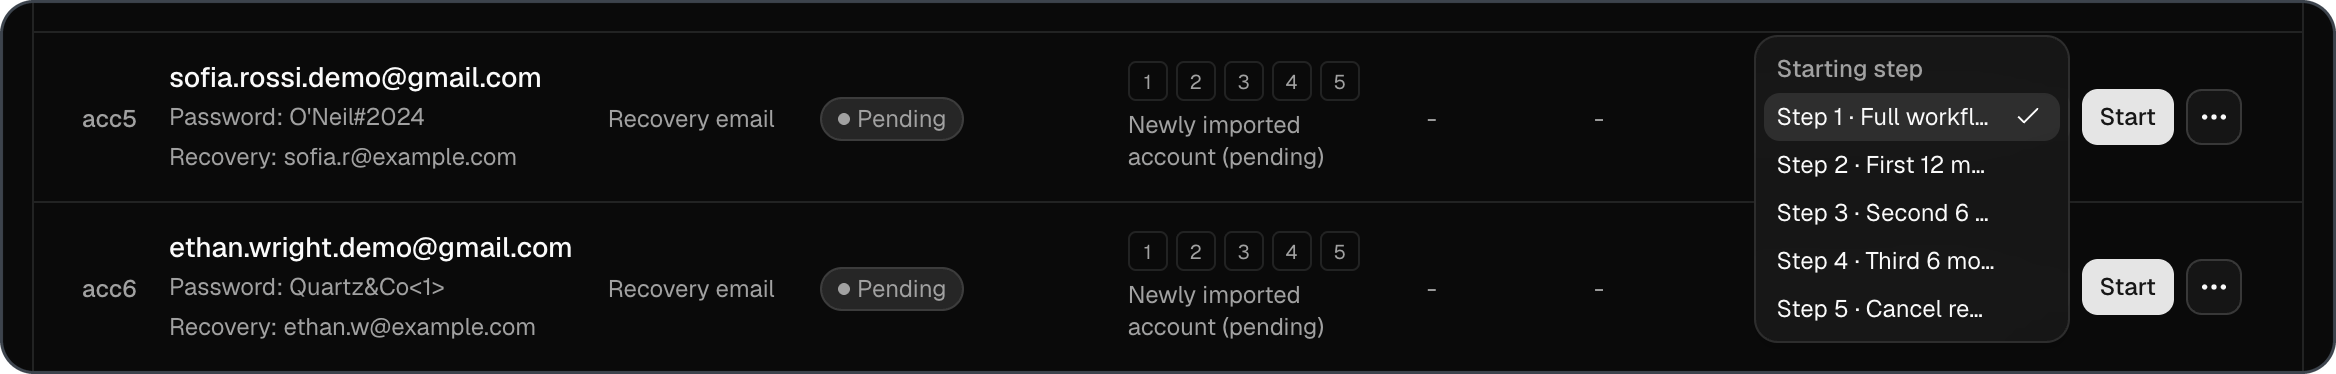
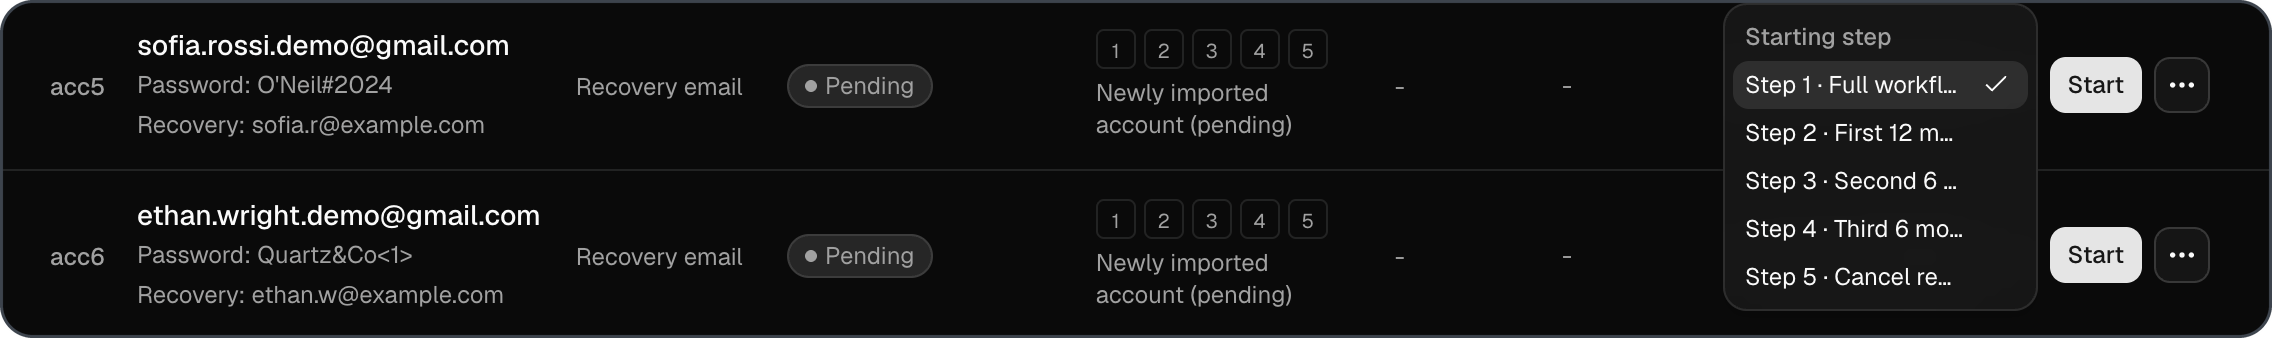
docs(images): recapture cropped console screenshots

diff --git a/README.md b/README.md
@@ -104,7 +104,7 @@ _Screenshots follow your device's light or dark theme. All accounts and values s
 <picture>
   <source media="(prefers-color-scheme: dark)" srcset="./batch/docs/images/console-region-menu-dark.png">
   <source media="(prefers-color-scheme: light)" srcset="./batch/docs/images/console-region-menu-light.png">
-  <img src="./batch/docs/images/console-region-menu-light.png" alt="Target region menu" width="420">
+  <img src="./batch/docs/images/console-region-menu-light.png" alt="Target region menu" width="100%">
 </picture>
 
 #### Plan
@@ -112,7 +112,7 @@ _Screenshots follow your device's light or dark theme. All accounts and values s
 <picture>
   <source media="(prefers-color-scheme: dark)" srcset="./batch/docs/images/console-plan-menu-dark.png">
   <source media="(prefers-color-scheme: light)" srcset="./batch/docs/images/console-plan-menu-light.png">
-  <img src="./batch/docs/images/console-plan-menu-light.png" alt="Plan menu" width="420">
+  <img src="./batch/docs/images/console-plan-menu-light.png" alt="Plan menu" width="100%">
 </picture>
 
 #### Account queue
